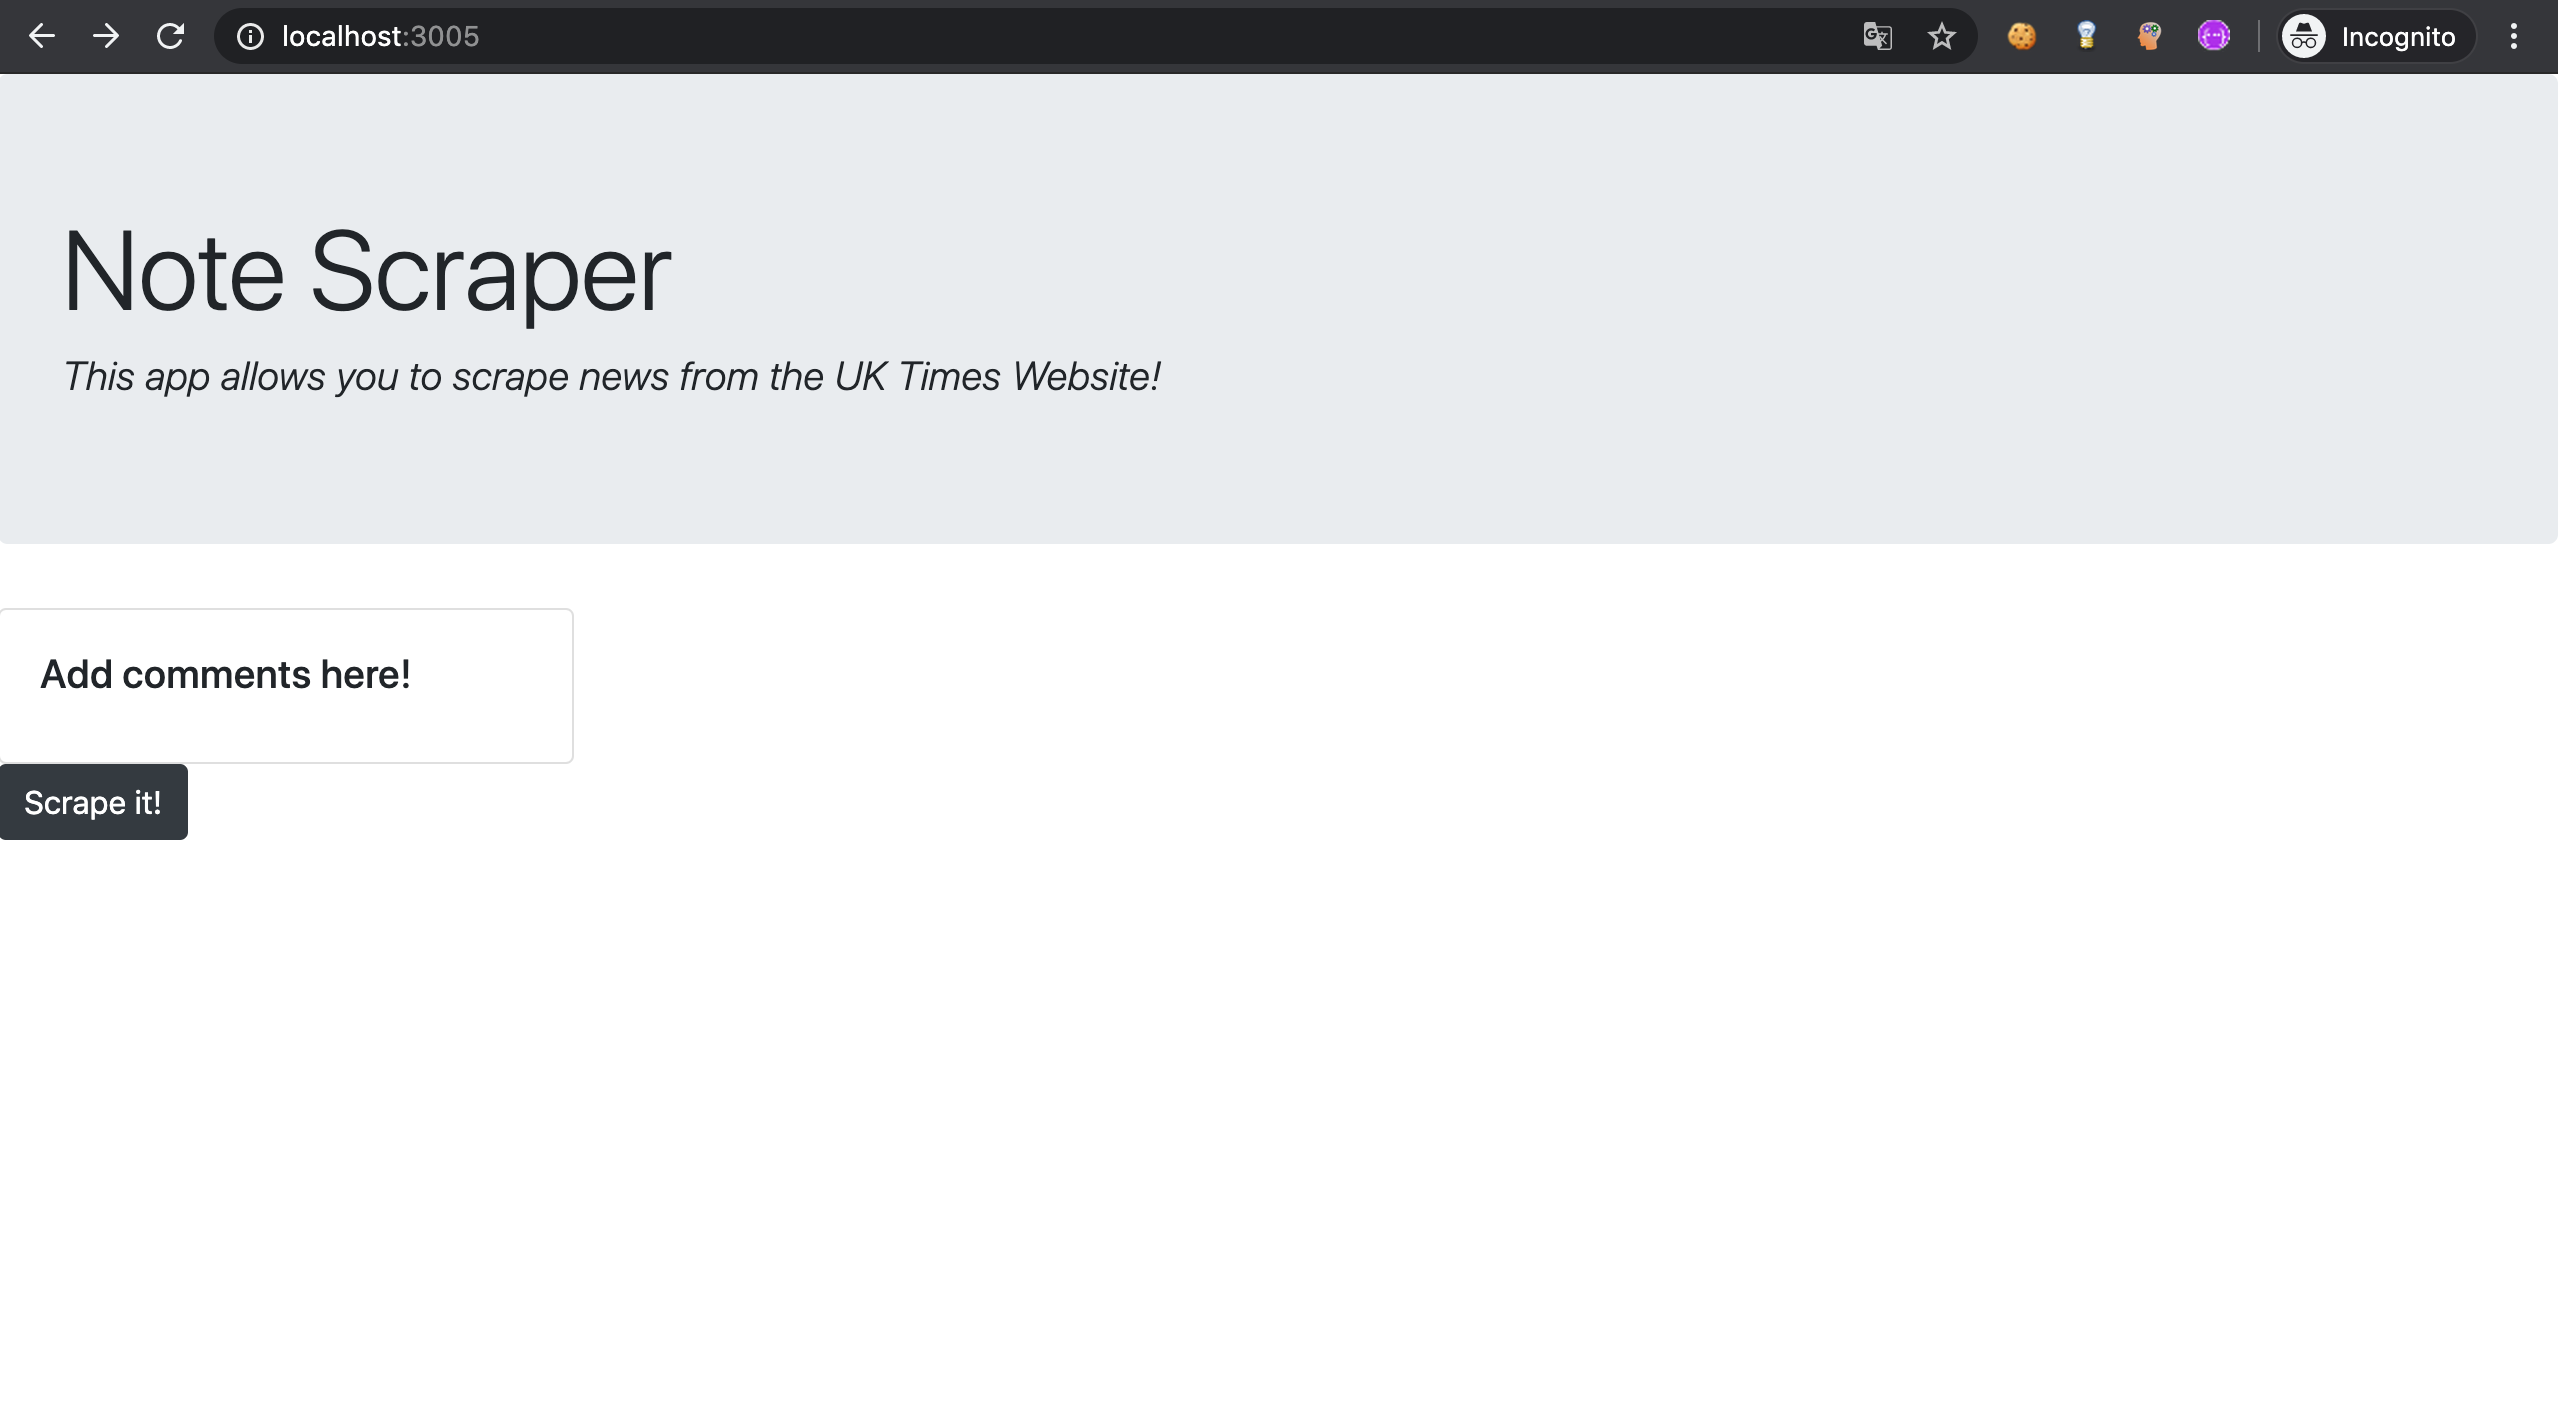
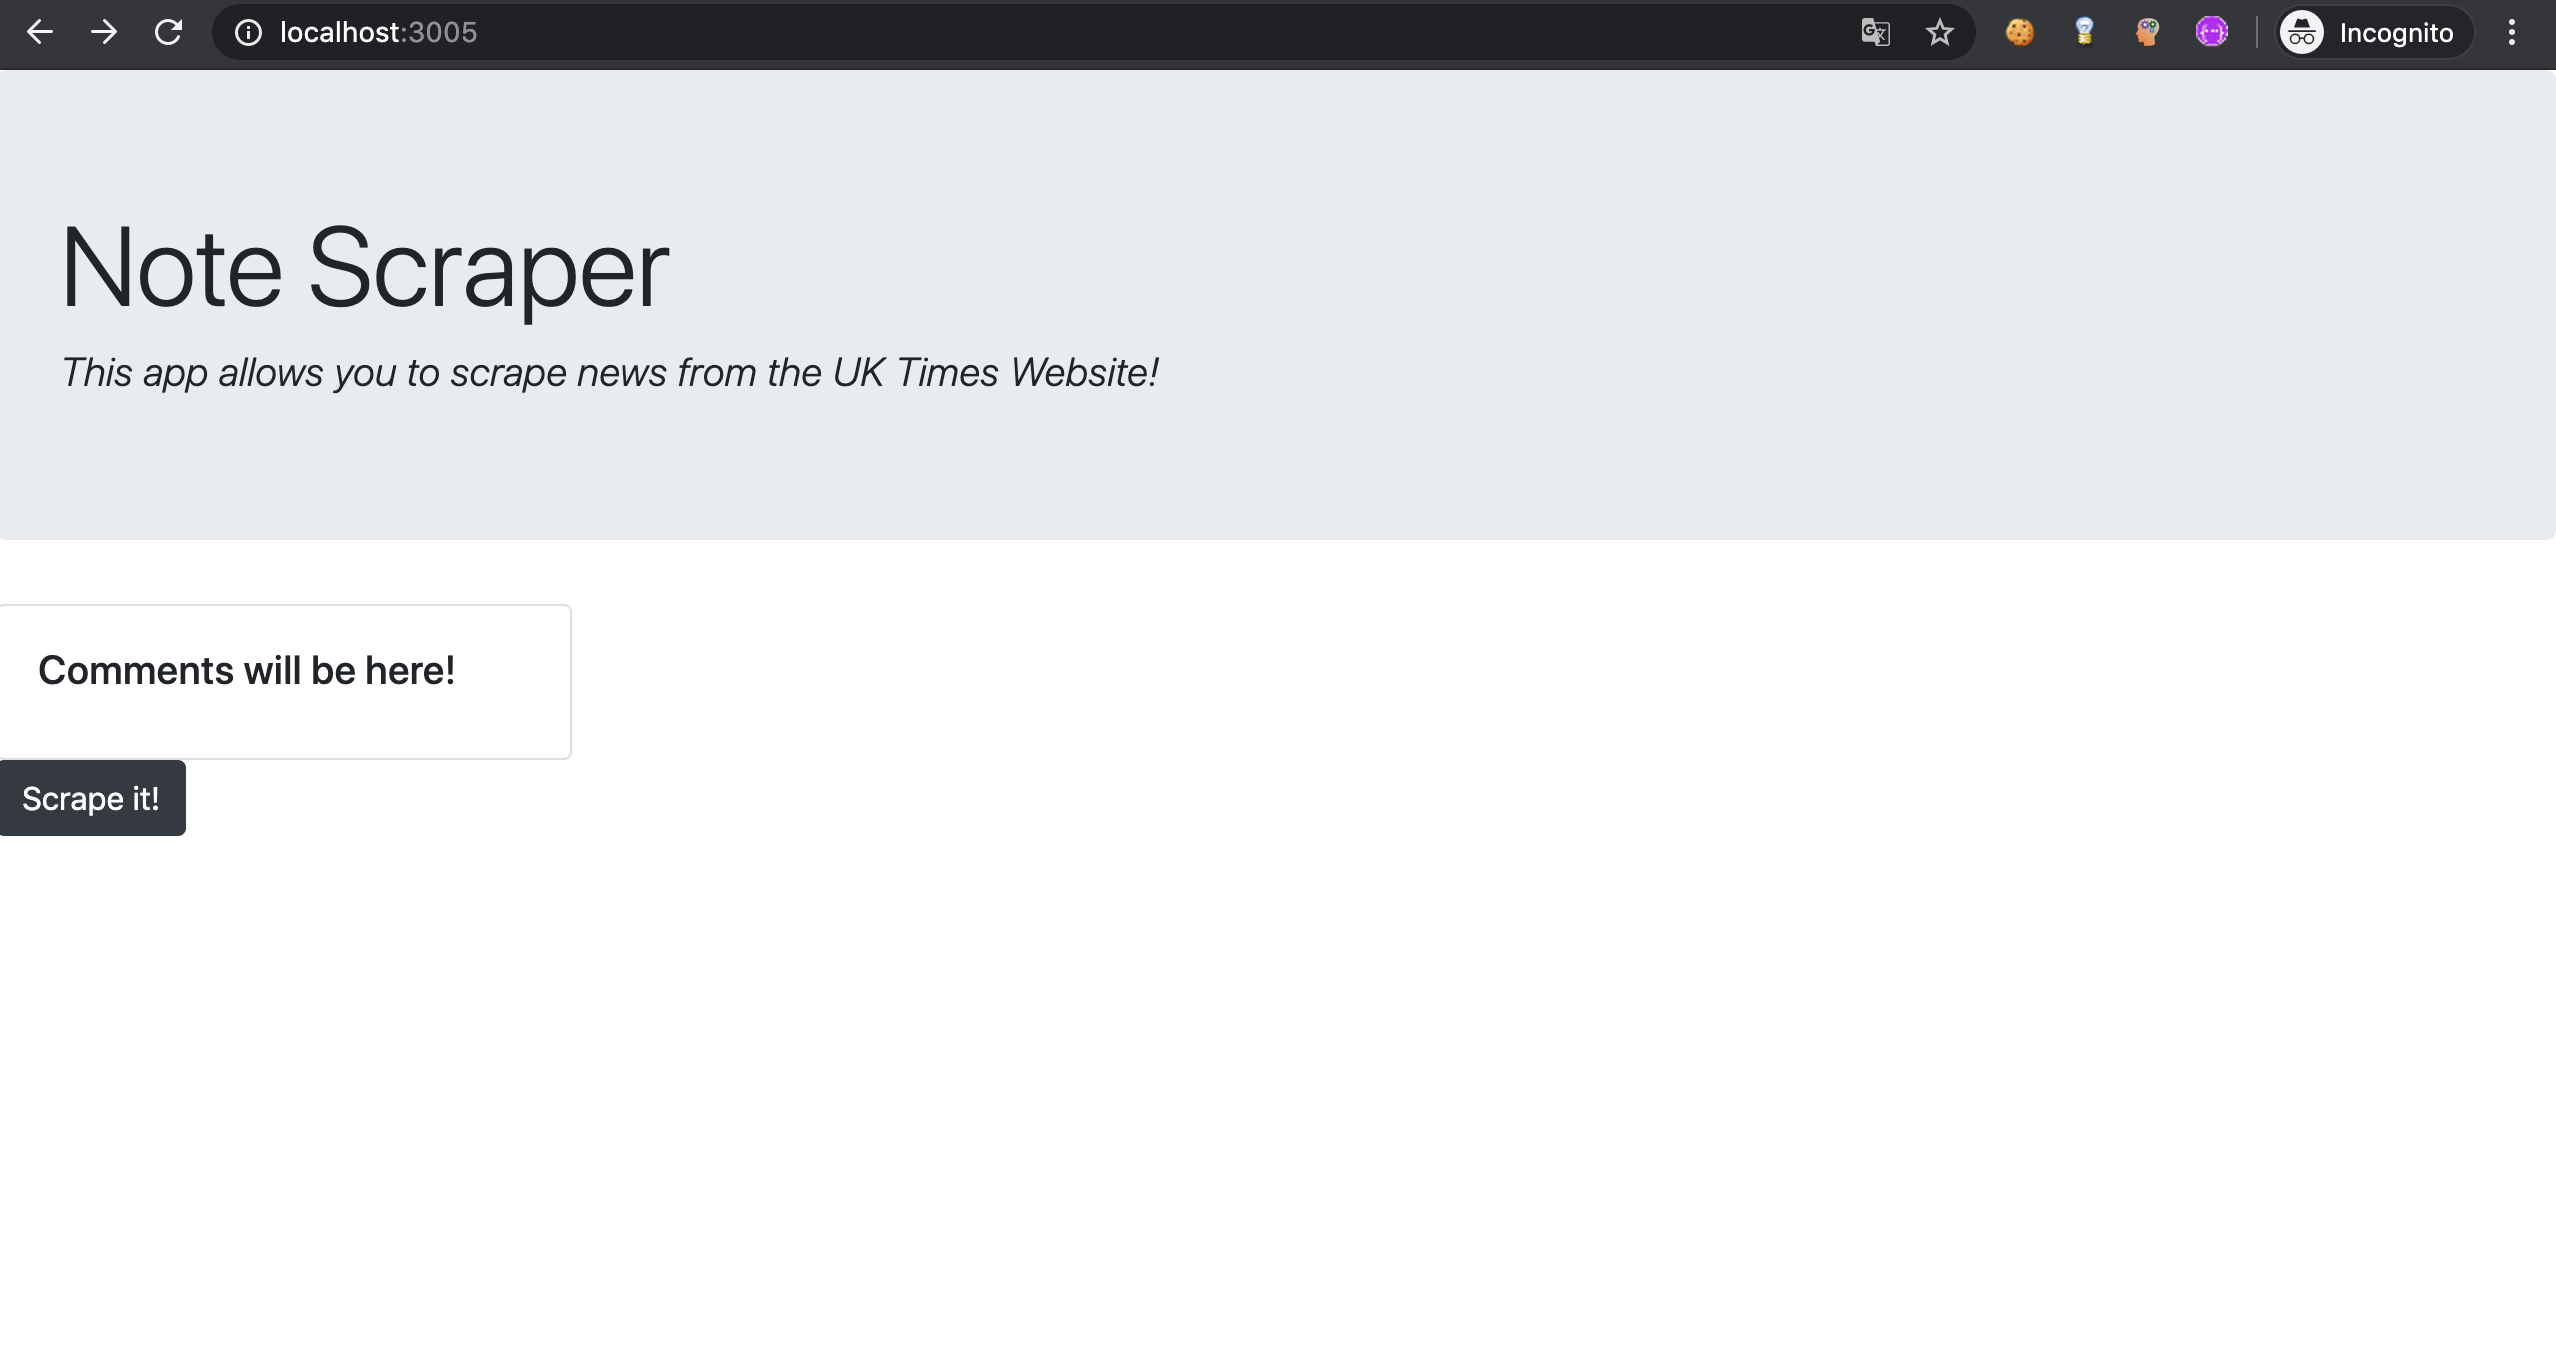
add delete button and delete function, not sure if you need to delete it in the db too?

diff --git a/public/app.js b/public/app.js
@@ -68,6 +68,7 @@ $(document).ready(function () {
                 $("#notes").append("<textarea id='bodyinput' name='body'></textarea>");
                 // A button to submit a new note, with the id of the article saved to it
                 $("#notes").append("<button data-id='" + data._id + "' id='savenote'>Save Note</button>");
+                $("#notes").append("<button data-id='" + data._id + "' id='deletenote'>Delete Note</button>");
 
                 // If there's a note in the article
                 if (data.note) {
@@ -84,7 +85,7 @@ $(document).ready(function () {
         event.preventDefault();
 
         // Grab the id associated with the article from the submit button
-        var thisId = $(this).attr("data-id");
+        let thisId = $(this).attr("data-id");
 
         // Run a POST request to change the note, using what's entered in the inputs
         $.ajax({
@@ -110,7 +111,36 @@ $(document).ready(function () {
         $("#bodyinput").val("");
     });
 
-    // need to add delete note button!
+    // When you click the deletenote button
+    $(document).on("click", "#deletenote", function (event) {
+        event.preventDefault();
+
+        // Grab the id associated with the article from the submit button
+        let thisId = $(this).attr("data-id");
+
+        // Run a POST request to change the note, using what's entered in the inputs
+        $.ajax({
+                method: "POST",
+                url: "/articles/" + thisId,
+                data: {
+                    // Value taken from title input
+                    title: "",
+                    // Value taken from note textarea
+                    body: ""
+                }
+            })
+            // With that done
+            .then(function (data) {
+                // Log the response
+                console.log(data);
+                // Empty the notes section
+                $("#notes").empty();
+            });
+
+        // Also, remove the values entered in the input and textarea for note entry
+        $("#titleinput").val("");
+        $("#bodyinput").val("");
+    });
 })
 
 

diff --git a/public/index.html b/public/index.html
@@ -65,7 +65,7 @@
     <div class="card" style="width: 18rem;">
         <!-- <img src="..." class="card-img-top" alt="..."> -->
         <div class="card-body" id="notes">
-            <h5 class="card-title">Add comments here!</h5>
+            <h5 class="card-title">Comments will be here!</h5>
             <p class="card-text"></p>
         </div>
     </div>
